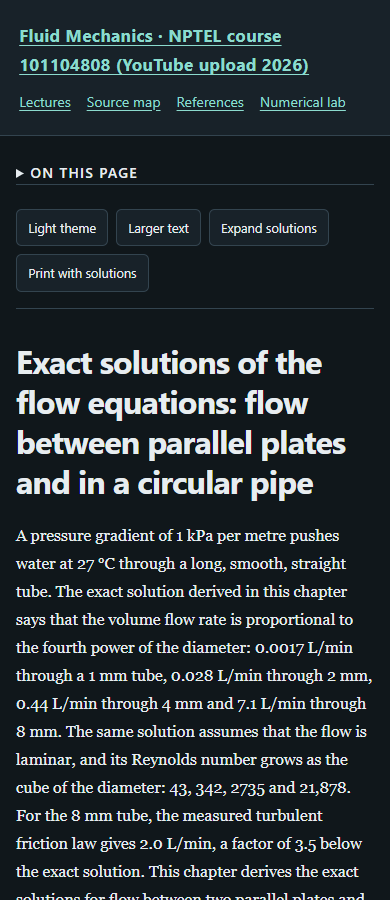
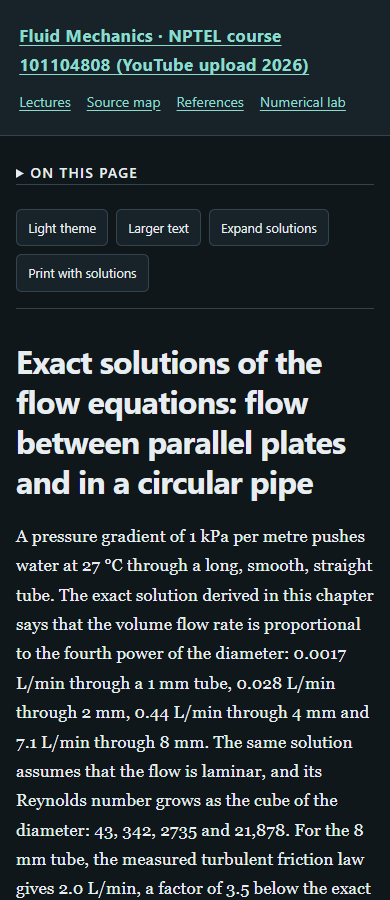
Clarify Chapter 7 stress indices and validate shared reader

Changed region(s): [[0.0308, 0.5911, 0.9538, 1.0]]

diff --git a/chapter-07-exact-solutions-parallel-plates-and-pipe.html b/chapter-07-exact-solutions-parallel-plates-and-pipe.html
@@ -1,6 +1,6 @@
 <!doctype html>
 <html lang="en"><head><meta charset="utf-8"><meta name="viewport" content="width=device-width,initial-scale=1">
[2 lines of base64/hex data omitted]
 <link rel="stylesheet" href="assets/book.css"><script>window.MathJax={tex:{inlineMath:[['$','$'],['\\(','\\)']],displayMath:[['$$','$$'],['\\[','\\]']],processEscapes:true},svg:{fontCache:'local'},options:{skipHtmlTags:['script','noscript','style','textarea','pre','code']}};</script>
 <script defer src="assets/mathjax-tex-svg.js"></script><script defer src="assets/book.js"></script></head>
 <body><a class="skip" href="#main">Skip to content</a>
@@ -153,7 +153,7 @@ K=\frac{3\mu U}{2h^2},\qquad \Pi=-\frac34 .
 <p>For plane Poiseuille flow (\(U=0\)), (7.11) gives \(q=-2Kh^3/(3\mu)\), and the mean velocity is \(V_{\text{avg}}=q/(2h)=-Kh^2/(3\mu)=\tfrac23V_{\max}\). The mean is two-thirds of the maximum, not half: the parabola is flat near the centre, where it is close to its maximum over a wide band. For the running slot without plate motion, \(V_{\text{avg}}=0.0976\ \mathrm{m/s}\) and \(q=9.76\times10^{-5}\ \mathrm{m^2/s}\). The flow rate scales as \(h^3\): halving the gap at fixed \(K\) divides \(q\) by 8.</p>
 
 <h2 id="plates-stress">Wall shear stress and the force on each plate <a class="timestamp" href="https://www.youtube.com/watch?v=A7mOSY_eGVU&amp;t=1757s">L13 29:17</a></h2>
-<p><strong>The stress component.</strong> Consider a small surface inside the fluid whose normal points in \(+y\). The fluid on the \(+y\) side exerts a force per unit area on the fluid on the \(-y\) side. Its \(x\)-component is the shear stress \(\tau_{xy}\). The Newtonian model gives \(\tau_{xy}=\tau_{yx}=\mu(\partial V_x/\partial y+\partial V_y/\partial x)\). Here \(V_y=0\) everywhere, so the second term is zero and</p>
+<p><strong>The stress component.</strong> Consider a small surface inside the fluid whose normal points in \(+y\). The fluid on the \(+y\) side exerts a force per unit area on the fluid on the \(-y\) side. This chapter denotes its \(x\)-component by \(\tau_{xy}\), with the force direction first. In the face-first convention of Chapter 2, the same component is \(T_{yx}\): the first index names the surface normal and the second names the force component. Thus the \(\tau_{xy}\) used here is Chapter 2's \(T_{yx}\). For the ordinary Newtonian fluid considered here, with no applied body couples, angular-momentum balance makes the stress symmetric, so \(T_{yx}=T_{xy}\); this equality permits the numerical formulas below but does not identify the two index conventions. The Newtonian model gives \(\tau_{xy}=\tau_{yx}=\mu(\partial V_x/\partial y+\partial V_y/\partial x)\). Here \(V_y=0\) everywhere, so the second term is zero and</p>
 \[
 \tau_{xy}=\mu\frac{dV_x}{dy}=Ky+\frac{\mu U}{2h}. \tag{7.12}
 \]

diff --git a/assets/book.css b/assets/book.css
@@ -8,3 +8,8 @@
 
 /* Tagged display equations: keep MathJax min-width inside the scroll box (added for this course). */
 mjx-container[display=true]{min-width:0!important;max-width:100%}
+
+/* Shared chapter conventions: keep the opening case and provenance legible. */
+.lead{font-size:1.08em;line-height:1.7}
+.source-note{font-size:.9em;color:var(--muted);line-height:1.7}
+@media print{.lead,.source-note{color:#000}}
